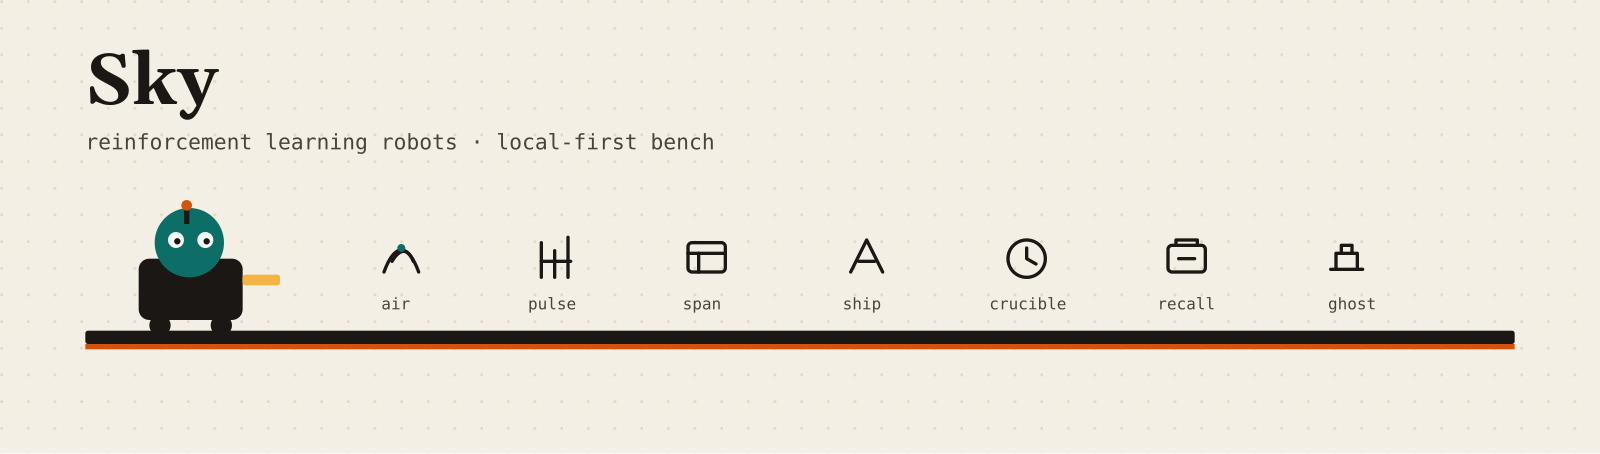
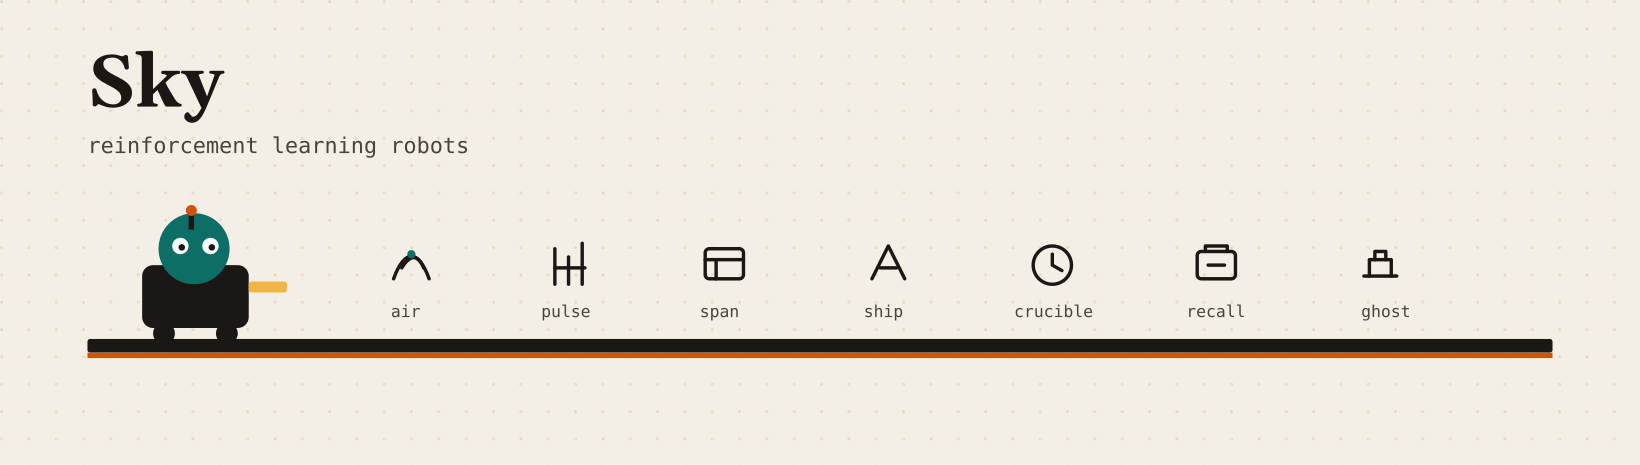
kill profile slop
short dry blurbs. drop shipping-now theater and courier essay. banner caption trimmed.

diff --git a/README.md b/README.md
@@ -1,28 +1,24 @@
 <p align="center">
-  <img src="banner.png" alt="Courier robot parked on a daylight workbench labeled air, pulse, span, ship, crucible, recall, and ghost." width="820">
+  <img src="banner.png" alt="Sky" width="820">
 </p>
 
 # Sky
 
-Reinforcement learning robots. I build local-first developer tools and weird interfaces.
+reinforcement learning robots.
 
-The bench (a small site, not a résumé wall): **[skysssup.github.io](https://skysssup.github.io/)**  
-X: **[@skysssup](https://x.com/skysssup)**
+tools I use. local first. weird UIs.
 
-## shipping now
+[skysssup.github.io](https://skysssup.github.io/) · [@skysssup](https://x.com/skysssup)
 
-- **[airforge](https://github.com/skysssup/airforge)** — draw in the air or with a mouse, then forge the stroke into Rapier rigid bodies. Webcam optional. [demo](https://skysssup.github.io/airforge/)
-- **[localpulse](https://github.com/skysssup/localpulse)** — LLM cost and latency dashboard. Metrics stay local; prompts are not uploaded. [demo](https://skysssup.github.io/localpulse/)
-- **[spanforge](https://github.com/skysssup/spanforge)** — inspector for LLM and agent calls: spans, waterfalls, redaction. [demo](https://skysssup.github.io/spanforge/)
-- **[shipgate](https://github.com/skysssup/shipgate)** — opt-in auto-ship for coding agents: secret scan, safety levels, undo, busy-aware shipping. [demo](https://skysssup.github.io/shipgate/)
-- **[agentcrucible](https://github.com/skysssup/agentcrucible)** — fault-injection CLI. Breaks tools on purpose and grades honesty and harm.
-- **[recall-ai](https://github.com/skysssup/recall-ai)** — spaced repetition for algorithmic problems. Local SQLite, review queue, topic graph.
+## projects
 
-## also on the bench
+- **[airforge](https://github.com/skysssup/airforge)** — draw in air (or with a mouse). stroke becomes Rapier bodies. webcam optional. [demo](https://skysssup.github.io/airforge/)
+- **[localpulse](https://github.com/skysssup/localpulse)** — LLM cost + latency. metrics stay on disk. [demo](https://skysssup.github.io/localpulse/)
+- **[spanforge](https://github.com/skysssup/spanforge)** — spans / waterfalls for agent calls. redacts secrets. local. [demo](https://skysssup.github.io/spanforge/)
+- **[shipgate](https://github.com/skysssup/shipgate)** — agent done → scan → commit → push. opt-in. undo. [demo](https://skysssup.github.io/shipgate/)
+- **[agentcrucible](https://github.com/skysssup/agentcrucible)** — break tools on purpose. grades lies and damage.
+- **[recall-ai](https://github.com/skysssup/recall-ai)** — spaced rep for algo problems. SQLite.
+- **[ghost-notetaker](https://github.com/skysssup/ghost-notetaker)** — sticky notes screen share can't see.
+- **[moltdao](https://github.com/skysssup/moltdao)** — agents vote USDC. humans fund.
 
-- **[ghost-notetaker](https://github.com/skysssup/ghost-notetaker)** — Electron sticky notes that stay off screen share. Notes are local.
-- **[moltdao](https://github.com/skysssup/moltdao)** — AI-agent DAO. Agents propose and vote with USDC; humans fund the treasury.
-
----
-
-Arrow keys roll a courier across the site. It only parks on things that are actually shipped.
+click the demos or don't. arrows move the little robot on the site.
